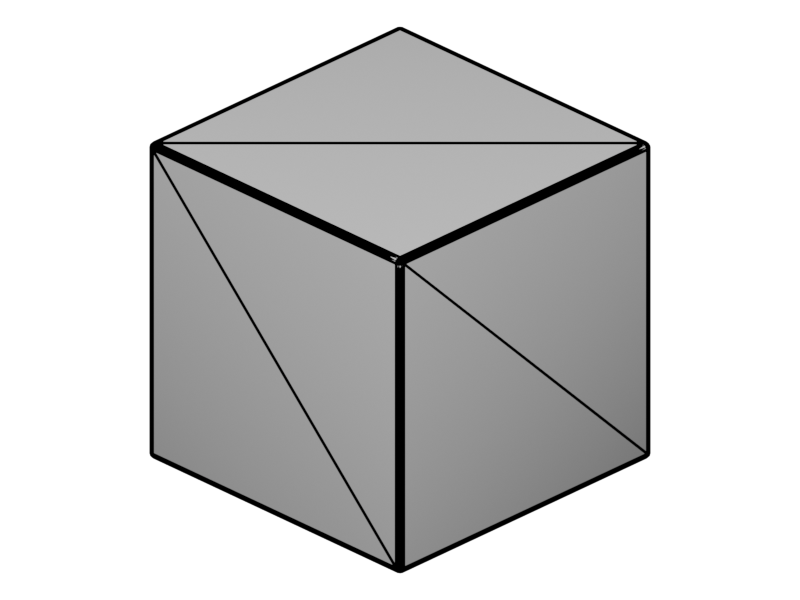
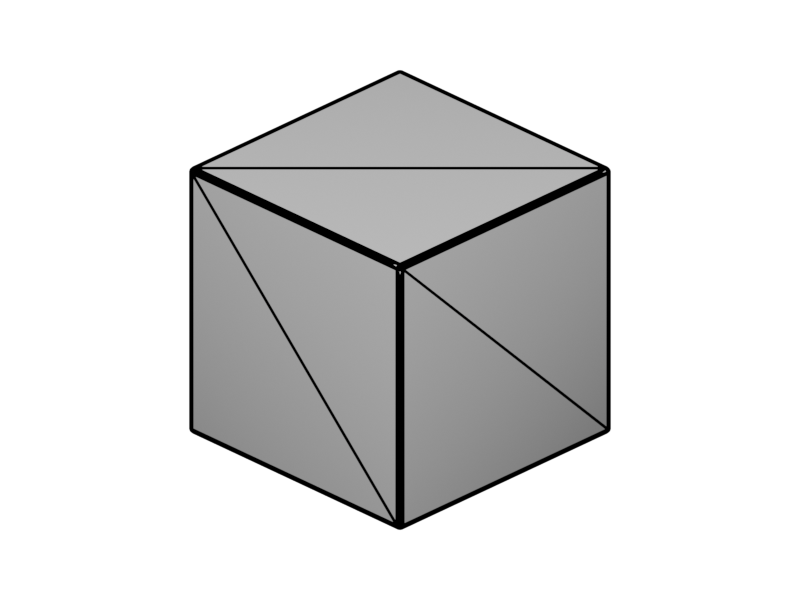
fix: separate overlapping gallery objects and sharpen decimate visibility
duplicate_mesh and merge_mesh_geometry's gallery pairs rendered visually
identical: duplicate_mesh places its copy at the source's exact transform
(correct, tested tool behavior), which a plain camera can't distinguish
from a single object. Offset every object but the first sideways in the
render script only (never touches the real OBJ data or duplicate_mesh's
actual output), with a depsgraph update before camera framing reads
matrix_world -- Blender does not refresh it synchronously in --background
mode, which silently cropped the offset object until this was added.
Camera framing itself moved from a 3D bounding-sphere radius to a
camera-space projected bounding box, since the sphere approach
under-framed the new elongated multi-object arrangement.

Also raised decimate_mesh's gallery strength from 0.5 to 0.85 -- the
tool's effect was real but visually marginal at the GUI-default strength
on this fixture.

diff --git a/scripts/_blender_render_obj.py b/scripts/_blender_render_obj.py
@@ -10,7 +10,10 @@ anyway (confirmed empirically; see the design spec's Settings table).
 
 Camera framing uses manual bounding-box math, not
 view3d.camera_to_view_selected -- that operator needs a live 3D viewport
-area, also unavailable in --background mode.
+area, also unavailable in --background mode. Framing projects onto the
+camera's own right/up axes (not a simple 3D bounding-sphere radius) so an
+elongated multi-object arrangement (see _separate_overlapping_objects)
+frames correctly instead of cropping.
 
 Settings below are named constants, not scattered magic numbers -- tune
 these (and update the spec's rationale) if a render looks wrong."""
@@ -21,7 +24,8 @@ import mathutils
 
 RESOLUTION = (800, 600)
 CAMERA_DIRECTION = (-1.0, 1.0, -0.75)  # fixed diagonal view angle, same for every render
-ORTHO_MARGIN = 1.3  # headroom multiplier on the mesh's bounding-sphere radius
+ORTHO_MARGIN = 1.3  # headroom multiplier on the mesh's projected half-extent
+OFFSET_GAP = 0.5  # extra world-unit gap between objects when separating overlaps
 
 
 def _parse_args() -> tuple[str, str]:
@@ -44,7 +48,25 @@ def _import_obj(obj_path: str):
     imported = [obj for obj in bpy.context.selected_objects if obj.type == "MESH"]
     if not imported:
         raise SystemExit(f"no mesh object imported from '{obj_path}'")
-    return imported[0]
+    return imported
+
+
+def _separate_overlapping_objects(mesh_objects) -> None:
+    """Some gallery pairs (duplicate_mesh's 'after', merge_mesh_geometry's
+    'before') genuinely contain two objects at the exact same transform --
+    that overlap is real, tested behavior of the tool, not a bug. But it
+    renders as a single indistinguishable box. Nudge every object but the
+    first sideways here, in this throwaway render scene only -- never
+    touches the source OBJ data or any tool's real output -- so the camera
+    can show them as separate. Requires a depsgraph update afterward before
+    any bounding-box math reads matrix_world (see main())."""
+    if len(mesh_objects) < 2:
+        return
+    first = mesh_objects[0]
+    width = max(c[0] for c in first.bound_box) - min(c[0] for c in first.bound_box)
+    step = width + OFFSET_GAP
+    for i, obj in enumerate(mesh_objects[1:], start=1):
+        obj.location.x += step * i
 
 
 def _mark_all_edges_freestyle(mesh_obj) -> None:
@@ -67,20 +89,35 @@ def _mark_all_edges_freestyle(mesh_obj) -> None:
     lineset.select_edge_mark = True
 
 
-def _frame_camera(target, scene) -> None:
-    corners = [target.matrix_world @ mathutils.Vector(c) for c in target.bound_box]
-    center = sum(corners, mathutils.Vector()) / 8
+def _frame_camera(targets, scene) -> None:
+    """targets is a list of one or more mesh objects. Projects every
+    bound_box corner onto the camera's own right/up axes (not a 3D
+    bounding-sphere radius) so an elongated multi-object arrangement is
+    framed correctly -- a bounding-sphere radius under-estimated the
+    required view width for two side-by-side offset objects and cropped
+    the second one (confirmed empirically)."""
+    corners = [obj.matrix_world @ mathutils.Vector(c) for obj in targets for c in obj.bound_box]
+    center = sum(corners, mathutils.Vector()) / len(corners)
     radius = max((c - center).length for c in corners)
+
+    direction = mathutils.Vector(CAMERA_DIRECTION).normalized()
+    rotation = direction.to_track_quat("-Z", "Y")
+    right = rotation @ mathutils.Vector((1, 0, 0))
+    up = rotation @ mathutils.Vector((0, 1, 0))
+
+    half_width = max(abs((c - center).dot(right)) for c in corners)
+    half_height = max(abs((c - center).dot(up)) for c in corners)
+    aspect = RESOLUTION[0] / RESOLUTION[1]
+    ortho_scale = max(half_width * 2, half_height * 2 * aspect) * ORTHO_MARGIN
 
     cam_data = bpy.data.cameras.new("gallery_camera")
     cam_data.type = "ORTHO"
-    cam_data.ortho_scale = radius * 2 * ORTHO_MARGIN
+    cam_data.ortho_scale = ortho_scale
     cam_obj = bpy.data.objects.new("gallery_camera", cam_data)
     scene.collection.objects.link(cam_obj)
 
-    direction = mathutils.Vector(CAMERA_DIRECTION).normalized()
     cam_obj.location = center - direction * radius * 4
-    cam_obj.rotation_euler = direction.to_track_quat("-Z", "Y").to_euler()
+    cam_obj.rotation_euler = rotation.to_euler()
     scene.camera = cam_obj
 
 
@@ -97,8 +134,10 @@ def main() -> None:
     scene = bpy.context.scene
 
     _clear_scene()
-    mesh_obj = _import_obj(obj_path)
-    _frame_camera(mesh_obj, scene)
+    mesh_objects = _import_obj(obj_path)
+    _separate_overlapping_objects(mesh_objects)
+    bpy.context.view_layer.update()  # matrix_world must reflect the offset before framing
+    _frame_camera(mesh_objects, scene)
     _light_scene(scene)
 
     scene.render.resolution_x, scene.render.resolution_y = RESOLUTION
@@ -107,7 +146,8 @@ def main() -> None:
     scene.render.filepath = png_path
     scene.render.use_freestyle = True
     bpy.context.view_layer.use_freestyle = True
-    _mark_all_edges_freestyle(mesh_obj)
+    for mesh_obj in mesh_objects:
+        _mark_all_edges_freestyle(mesh_obj)
 
     bpy.ops.render.render(write_still=True)
     print(f"wrote {png_path}")

diff --git a/scripts/generate_mesh_gallery.py b/scripts/generate_mesh_gallery.py
@@ -120,7 +120,7 @@ def main() -> int:
     with tempfile.TemporaryDirectory() as tmp:
         pairs = {
             "decimate_mesh": _simple_tool(
-                tmp, "decimate_mesh", lambda **kw: decimate_mesh(strength=0.5, **kw)),
+                tmp, "decimate_mesh", lambda **kw: decimate_mesh(strength=0.85, **kw)),
             "bevel_mesh": _simple_tool(
                 tmp, "bevel_mesh", lambda **kw: bevel_mesh(amount=0.1, **kw)),
             "subdivide_mesh": _simple_tool(tmp, "subdivide_mesh", subdivide_mesh),
